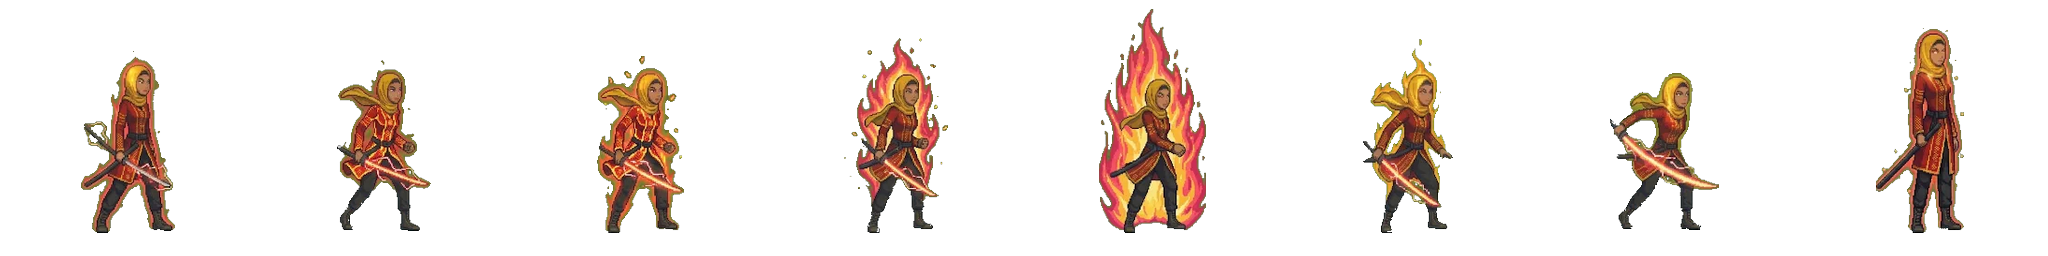
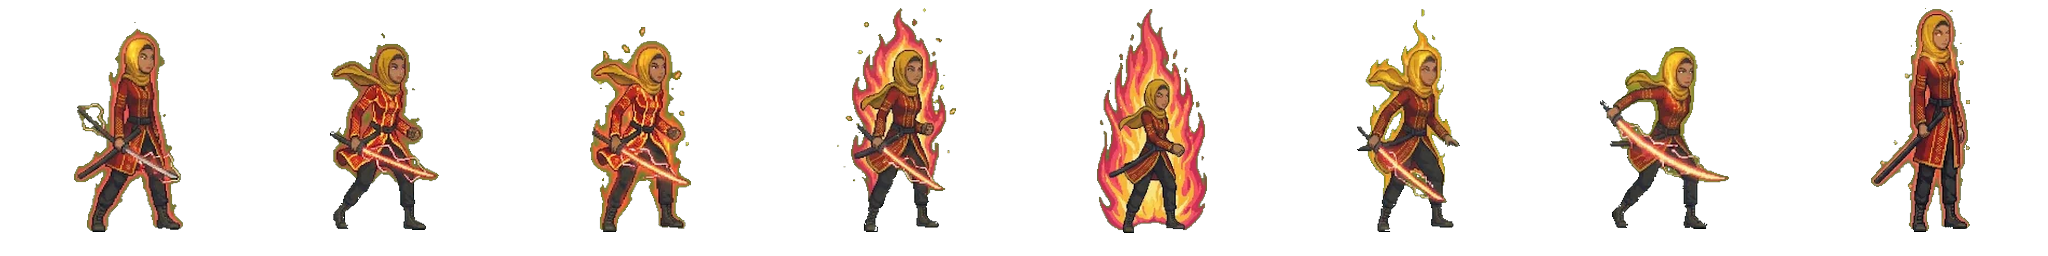
feat(jihan): scale transform form to full size, fix double run spritesheet, add lightning teleport combo (yellow, red, black VFX)

diff --git a/src/components/GameCanvas.tsx b/src/components/GameCanvas.tsx
@@ -404,6 +404,29 @@ export const GameCanvas: React.FC<GameCanvasProps> = ({
     }[]
   >([]);
 
+  // Jihan Transformed Unique Lightning Teleport Combo VFX (Yellow, Red, Black Lightning)
+  const jihanLightningRef = useRef<
+    {
+      points: { x: number; y: number }[];
+      color: string;
+      width: number;
+      life: number;
+      maxLife: number;
+    }[]
+  >([]);
+
+  const jihanAfterimagesRef = useRef<
+    {
+      x: number;
+      y: number;
+      facingLeft: boolean;
+      frame: number;
+      color: string;
+      life: number;
+      maxLife: number;
+    }[]
+  >([]);
+
   const damageNumbersRef = useRef<
     {
       x: number;
@@ -2496,10 +2519,120 @@ export const GameCanvas: React.FC<GameCanvasProps> = ({
           }
         }
 
-        // Advance combat attack frames (calibrated relaxed pacing: default 7 ticks per frame)
-        const attackTicksPerFrame = Math.max(2, Math.round(7 / animSpeedRef.current));
+        // Advance combat attack frames (calibrated relaxed pacing: default 7 ticks per frame; transformed Jihan lightning fast 3 ticks)
+        const isJihanTransformCombat = isJihanActive && transformStateRef.current.isActive;
+        const attackTicksPerFrame = isJihanTransformCombat
+          ? Math.max(1, Math.round(3 / animSpeedRef.current))
+          : Math.max(2, Math.round(7 / animSpeedRef.current));
+
         if (attack.timer % attackTicksPerFrame === 0) {
           attack.frame++;
+
+          // Jihan Transformed Unique Lightning Teleport Combo (Left & Right lightning teleports with Yellow, Red, Black VFX)
+          if (isJihanTransformCombat && attack.frame < 8) {
+            attack.hasHit = false; // reset to allow every teleport slash to hit!
+
+            let targetX = active.x + (active.facingLeft ? -65 : 65);
+            let minD = 9999;
+            for (const dummy of trainingDummiesRef.current) {
+              const d = Math.abs(active.x - dummy.x);
+              if (d < minD && d < 280) {
+                minD = d;
+                targetX = dummy.x;
+              }
+            }
+            if (monsterRef.current.isActive) {
+              const d = Math.abs(active.x - monsterRef.current.x);
+              if (d < minD && d < 300) {
+                minD = d;
+                targetX = monsterRef.current.x;
+              }
+            }
+
+            const prevX = active.x;
+            const prevY = active.y;
+
+            // Teleport alternating left & right of target
+            const sideOffset = attack.frame % 2 === 0 ? -65 : 65;
+            active.x = Math.max(80, Math.min(WORLD_W - 80, targetX + sideOffset));
+            active.facingLeft = sideOffset > 0; // face toward target center
+
+            // Afterimage in Yellow, Red, and Void Black
+            const afterimageColor = attack.frame % 3 === 0
+              ? "rgba(251, 191, 36, 0.75)" // Yellow
+              : attack.frame % 3 === 1
+              ? "rgba(239, 68, 68, 0.75)"  // Red
+              : "rgba(10, 10, 10, 0.85)";  // Black
+
+            jihanAfterimagesRef.current.push({
+              x: prevX,
+              y: prevY,
+              facingLeft: !active.facingLeft,
+              frame: attack.frame,
+              color: afterimageColor,
+              life: 14,
+              maxLife: 14,
+            });
+
+            // Multi-segment jagged lightning bolts from (prevX, prevY - 45) to (active.x, active.y - 45)
+            const boltPoints: { x: number; y: number }[] = [];
+            const segments = 6;
+            for (let s = 0; s <= segments; s++) {
+              const t = s / segments;
+              const bx = prevX + (active.x - prevX) * t;
+              const by = prevY - 45 + (active.y - prevY) * t + (s > 0 && s < segments ? (Math.random() - 0.5) * 55 : 0);
+              boltPoints.push({ x: bx, y: by });
+            }
+
+            // 1. Electric Yellow Lightning Bolt
+            jihanLightningRef.current.push({
+              points: boltPoints,
+              color: "#fbbf24",
+              width: 2.8,
+              life: 12,
+              maxLife: 12,
+            });
+
+            // 2. Crimson Red Lightning Bolt
+            jihanLightningRef.current.push({
+              points: boltPoints.map(p => ({ x: p.x + (Math.random() - 0.5) * 8, y: p.y + (Math.random() - 0.5) * 8 })),
+              color: "#ef4444",
+              width: 2.4,
+              life: 11,
+              maxLife: 11,
+            });
+
+            // 3. Void Black Lightning Bolt
+            jihanLightningRef.current.push({
+              points: boltPoints.map(p => ({ x: p.x + (Math.random() - 0.5) * 12, y: p.y + (Math.random() - 0.5) * 12 })),
+              color: "#050505",
+              width: 3.6,
+              life: 10,
+              maxLife: 10,
+            });
+
+            // Spawn Yellow, Red, and Black lightning spark particles
+            const sparkPalette = ["#fbbf24", "#ef4444", "#18181b", "#fde047", "#dc2626", "#000000"];
+            for (let p = 0; p < 8; p++) {
+              const ang = Math.random() * Math.PI * 2;
+              const spd = 2 + Math.random() * 6;
+              combatParticlesRef.current.push({
+                x: active.x,
+                y: active.y - 45,
+                vx: Math.cos(ang) * spd,
+                vy: Math.sin(ang) * spd - 1,
+                color: sparkPalette[p % sparkPalette.length],
+                size: 2.5 + Math.random() * 3,
+                life: 14 + Math.floor(Math.random() * 8),
+                maxLife: 22,
+              });
+            }
+
+            screenShakeRef.current = 8;
+            sound.playSwordSlash();
+            sound.playHitImpact();
+          }
+
           if (attack.frame >= 8) {
             attack.isAttacking = false;
             attack.frame = 0;
@@ -7015,6 +7148,75 @@ export const GameCanvas: React.FC<GameCanvasProps> = ({
           ctx.restore();
         }
       };
+
+      // Layer 5.95: Transformed Jihan Teleport Afterimages
+      for (let i = jihanAfterimagesRef.current.length - 1; i >= 0; i--) {
+        const img = jihanAfterimagesRef.current[i];
+        img.life--;
+        if (img.life <= 0) {
+          jihanAfterimagesRef.current.splice(i, 1);
+          continue;
+        }
+        const tCombatImg = imagesRef.current.jihanTransCombat;
+        if (tCombatImg) {
+          const frameW = 256;
+          const frameH = 256;
+          const sx = Math.min(7, img.frame) * frameW;
+          const sy = 0;
+          const destW = 145;
+          const destH = 145;
+          const footYOffset = destH * (232 / 256);
+          const drawY = img.y + 18 - footYOffset;
+          const screenX = img.x - camX;
+          const alpha = (img.life / img.maxLife) * 0.7;
+
+          ctx.save();
+          ctx.globalAlpha = alpha;
+          if (img.facingLeft) {
+            ctx.translate(screenX, 0);
+            ctx.scale(-1, 1);
+            ctx.drawImage(tCombatImg, sx, sy, frameW, frameH, -destW / 2, drawY, destW, destH);
+          } else {
+            ctx.drawImage(tCombatImg, sx, sy, frameW, frameH, screenX - destW / 2, drawY, destW, destH);
+          }
+          // Afterimage color glow overlay
+          ctx.globalCompositeOperation = "source-atop";
+          ctx.fillStyle = img.color;
+          ctx.fillRect(img.facingLeft ? -destW / 2 : screenX - destW / 2, drawY, destW, destH);
+          ctx.restore();
+        }
+      }
+
+      // Layer 5.96: Lightning Teleport Arcs (Yellow, Red, Black Lightning)
+      for (let i = jihanLightningRef.current.length - 1; i >= 0; i--) {
+        const bolt = jihanLightningRef.current[i];
+        bolt.life--;
+        if (bolt.life <= 0) {
+          jihanLightningRef.current.splice(i, 1);
+          continue;
+        }
+        const alpha = bolt.life / bolt.maxLife;
+        ctx.save();
+        ctx.globalAlpha = alpha;
+        ctx.strokeStyle = bolt.color;
+        ctx.lineWidth = bolt.width;
+        ctx.shadowColor = bolt.color === "#050505" ? "#ef4444" : bolt.color;
+        ctx.shadowBlur = bolt.color === "#050505" ? 6 : 10;
+        ctx.lineJoin = "miter";
+        ctx.lineCap = "square";
+        ctx.beginPath();
+        for (let ptIdx = 0; ptIdx < bolt.points.length; ptIdx++) {
+          const pt = bolt.points[ptIdx];
+          const ptScreenX = pt.x - camX;
+          if (ptIdx === 0) {
+            ctx.moveTo(ptScreenX, pt.y);
+          } else {
+            ctx.lineTo(ptScreenX, pt.y);
+          }
+        }
+        ctx.stroke();
+        ctx.restore();
+      }
 
       // Draw companion first, then active on top
       if (isJihanActive) {
